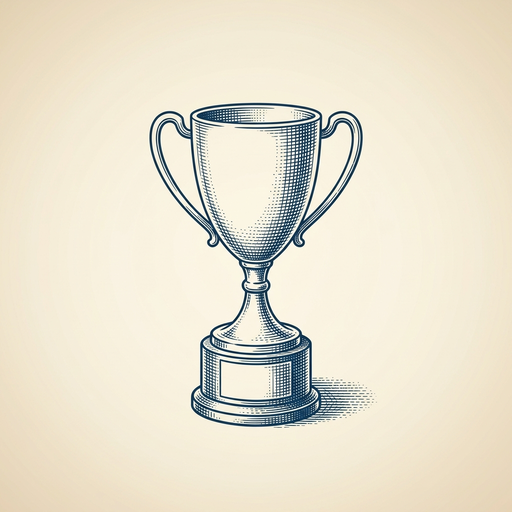
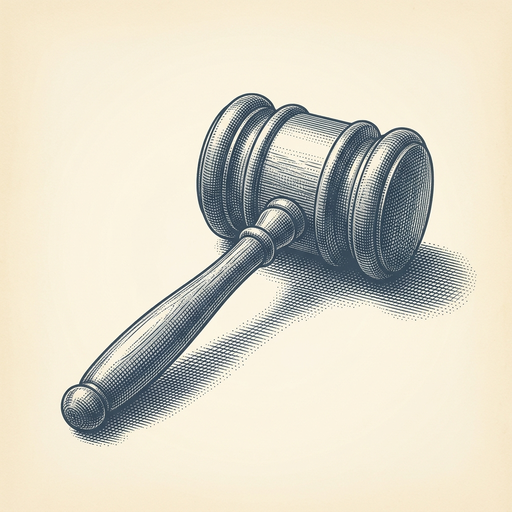
fix(render): assign stable per-edition issue numbers
Edition numbering reused the highest issue number that already had
assets, so each new date overwrote the most recent edition instead of
incrementing. Number every edition once, persist it in the edition JSON,
and increment for new dates so re-runs stay idempotent and a new day can
never clobber a shipped edition.

Restore edition 6 (2026-05-20) to its original artifacts and re-home the
2026-05-28 edition to edition 7.

Changed region(s): [[0.0938, 0.1562, 0.9375, 0.875], [0.9688, 0.0, 1.0, 0.0312], [0.0, 0.9688, 0.0312, 1.0]]

diff --git a/agent/tests/test_render_polish.py b/agent/tests/test_render_polish.py
@@ -143,6 +143,64 @@ class PublicHtmlPolishTests(unittest.TestCase):
                 render_edition(edition, issue_num=77, editions_dir=out)
 
 
+class IssueNumberingTests(unittest.TestCase):
+    """A new edition date must never overwrite a previously numbered edition."""
+
+    _STORY = {
+        "slot": "business",
+        "headline": "Anthropic ships enterprise memory controls",
+        "blurb": "Admins can now define workspace retention settings.",
+        "why_it_matters": "Teams get concrete governance over long-running AI work.",
+        "source_name": "Anthropic News",
+        "source_url": "https://example.com/a",
+        "tier": 1,
+    }
+
+    def _fixture(self, out_dir: Path, name: str, date: str) -> Path:
+        edition = out_dir / name
+        edition.write_text(
+            json.dumps(
+                {
+                    "date": date,
+                    "stories": [dict(self._STORY) for _ in range(4)],
+                    "try_this_prompt": {
+                        "title": "Try this prompt",
+                        "prompt": "Summarize today's strongest AI move.",
+                        "tool_hint": "Paste into your assistant.",
+                    },
+                }
+            ),
+            encoding="utf-8",
+        )
+        return edition
+
+    def test_first_render_assigns_next_number_and_persists_it(self):
+        with tempfile.TemporaryDirectory() as tmp:
+            out = Path(tmp)
+            edition = self._fixture(out, "a.json", "2026-06-01")
+            result = render_edition(edition, editions_dir=out)
+            self.assertEqual(result["issue_num"], 1)
+            self.assertEqual(json.loads(edition.read_text())["issue_num"], 1)
+
+    def test_rerender_same_edition_reuses_persisted_number(self):
+        with tempfile.TemporaryDirectory() as tmp:
+            out = Path(tmp)
+            edition = self._fixture(out, "a.json", "2026-06-01")
+            first = render_edition(edition, editions_dir=out)
+            second = render_edition(edition, editions_dir=out)
+            self.assertEqual(first["issue_num"], second["issue_num"])
+
+    def test_new_date_does_not_overwrite_existing_edition(self):
+        with tempfile.TemporaryDirectory() as tmp:
+            out = Path(tmp)
+            first = render_edition(self._fixture(out, "a.json", "2026-06-01"), editions_dir=out)
+            second = render_edition(self._fixture(out, "b.json", "2026-06-02"), editions_dir=out)
+            self.assertEqual(first["issue_num"], 1)
+            self.assertEqual(second["issue_num"], 2)
+            self.assertTrue((out / "edition_1_variant_c.html").is_file())
+            self.assertTrue((out / "edition_2_variant_c.html").is_file())
+
+
 class CompressEditionPngTests(unittest.TestCase):
 
     def test_compress_resizes_large_png(self):

diff --git a/agent/render_html.py b/agent/render_html.py
@@ -79,34 +79,32 @@ def next_issue_number(editions_dir: Path = EDITIONS_DIR) -> int:
     return (max(nums) + 1) if nums else 1
 
 
-def edition_has_assets(issue_num: int, editions_dir: Path = EDITIONS_DIR) -> bool:
-    """True when all expected variant_c PNGs exist for this issue."""
-    return all(
-        (editions_dir / image_filename(issue_num, i)).is_file()
-        for i in range(1, STORY_CARD_COUNT + 2)
-    )
-
-
 def resolve_issue_num(
     issue_num: int | None,
+    data: dict[str, Any],
+    edition_json_path: Path | None = None,
     editions_dir: Path = EDITIONS_DIR,
 ) -> int:
-    """Pick issue number for render; reuse latest issue that already has assets."""
+    """Assign a stable, per-edition issue number.
+
+    Numbers are keyed to the edition itself, not to whatever artifacts happen to
+    sit in ``editions_dir``. The first render of an edition claims the next free
+    number and persists it back into the edition JSON; later renders of the same
+    edition reuse that number, so re-runs are idempotent and a new date never
+    overwrites a previously shipped edition.
+    """
     if issue_num is not None:
         return issue_num
-    with_assets = []
-    for p in editions_dir.iterdir():
-        if not p.is_dir() or not p.name.startswith("edition_"):
-            continue
-        suffix = p.name.removeprefix("edition_")
-        if not suffix.isdigit():
-            continue
-        n = int(suffix)
-        if edition_has_assets(n, editions_dir):
-            with_assets.append(n)
-    if with_assets:
-        return max(with_assets)
-    return next_issue_number(editions_dir)
+    persisted = data.get("issue_num")
+    if isinstance(persisted, int) and persisted > 0:
+        return persisted
+    assigned = next_issue_number(editions_dir)
+    if edition_json_path is not None:
+        data["issue_num"] = assigned
+        edition_json_path.write_text(
+            json.dumps(data, indent=2) + "\n", encoding="utf-8"
+        )
+    return assigned
 
 
 # ---------- date formatting ----------
@@ -737,7 +735,7 @@ def render_edition(
     prompt = data.get("try_this_prompt") or {}
     story_limit = min(len(stories), STORY_CARD_COUNT)
 
-    issue_num = resolve_issue_num(issue_num, editions_dir)
+    issue_num = resolve_issue_num(issue_num, data, edition_json_path, editions_dir)
     issue_padded = f"{issue_num:03d}"
     dates = format_dateline(data["date"])
     preheader = derive_preheader(stories)

diff --git a/editions/edition_7_variant_c.md b/editions/edition_7_variant_c.md
@@ -1,0 +1,82 @@
+# ai espresso ☕ — Edition 7 · Variant C (Newspaper Comic · Snackable)
+
+*your morning cup of AI*
+**THU · MAY 28 · 2026**
+
+---
+
+![Mystery model Hy3 is crushing GPT-4o on OpenRouter's leaderboard](edition_7/assets/variant_c_01.png)
+
+**MARKET**
+
+## Mystery model Hy3 is crushing GPT-4o on OpenRouter's leaderboard
+
+An unidentified LLM called Hy3 has shot to the top of OpenRouter's user preference rankings, beating established models by a significant margin. No one knows who built it, what architecture it uses, or how it's trained—but developers are routing real queries to it.
+
+*A completely anonymous AI model is now handling production workloads based purely on performance.*
+
+[Hacker News (front page)](https://minimaxir.com/2026/05/openrouter-hy3/) · May 28
+
+---
+
+![You can now run AI chatbots directly on your iPhone](edition_7/assets/variant_c_02.png)
+
+**EVERYDAY**
+
+## You can now run AI chatbots directly on your iPhone
+
+Several apps let you download and run AI models locally on your iPhone — no internet required. Your conversations stay on your device, and the chatbot works offline. The tradeoff: local models are smaller and less capable than cloud versions like ChatGPT.
+
+*Privacy-conscious users get AI without sending data to servers.*
+
+[Engadget — AI](https://www.engadget.com/2182517/how-to-run-local-ai-chatbot-iphone/) · May 28
+
+---
+
+![Anthropic just released Claude Opus 4.8, its most capable model yet](edition_7/assets/variant_c_03.png)
+
+**BUILD**
+
+## Anthropic just released Claude Opus 4.8, its most capable model yet
+
+Claude Opus 4.8 is now available across all tiers. Anthropic says it outperforms the previous flagship on complex reasoning, coding, and extended context tasks, while maintaining the same speed and pricing as Opus 4.
+
+*The new flagship raises the bar for what production AI can handle without changing your budget.*
+
+[Anthropic News](https://www.anthropic.com/news/claude-opus-4-8) · May 28
+
+---
+
+![BMW puts humanoid robots on its assembly line in Europe](edition_7/assets/variant_c_04.png)
+
+**INDUSTRY**
+
+## BMW puts humanoid robots on its assembly line in Europe
+
+BMW is deploying humanoid robots at a European car plant, expanding a trial that started in the US. The robots are designed to work alongside humans on tasks like installing door seals and moving parts—jobs that are physically demanding or repetitive.
+
+*Humanoid form factor means existing factory layouts don't need rebuilding for automation.*
+
+[BBC Technology](https://www.bbc.com/news/articles/cgmpwzzvxr2o?at_medium=RSS&at_campaign=rss) · May 28
+
+---
+
+
+---
+
+![Try this prompt](edition_7/assets/variant_c_05.png)
+
+**☕ Try this prompt**
+
+### The jargon translator
+
+*Before sending anything to a new stakeholder, contractor, or your future self in six months.*
+
+
+```
+I'm about to paste something I wrote that sounds too clever or too internal. Rewrite it so a smart outsider—someone who doesn't work here—gets it in one read. Keep my point, lose the acronyms and insider shorthand. If a sentence needs a glossary, kill it.
+```
+
+---
+
+*brewed by ai espresso · [spot something off?](mailto:[email redacted]?subject=AI%20Espresso%20issue%20report) · [repo](https://github.com/jackiehimel/AI-espresso-agent)*

diff --git a/editions/edition_6_variant_c.md b/editions/edition_6_variant_c.md
@@ -1,63 +1,62 @@
 # ai espresso ☕ — Edition 6 · Variant C (Newspaper Comic · Snackable)
 
-*your morning cup of AI*
-**THU · MAY 28 · 2026**
+**WED · MAY 20 · 2026**
 
 ---
 
-![Mystery model Hy3 is crushing GPT-4o on OpenRouter's leaderboard](edition_6/assets/variant_c_01.png)
+![OpenAI will now let companies reserve compute so their AI apps don't slow down](edition_6/assets/variant_c_01.png)
 
 **MARKET**
 
-## Mystery model Hy3 is crushing GPT-4o on OpenRouter's leaderboard
+## OpenAI will now let companies reserve compute so their AI apps don't slow down
 
-An unidentified LLM called Hy3 has shot to the top of OpenRouter's user preference rankings, beating established models by a significant margin. No one knows who built it, what architecture it uses, or how it's trained—but developers are routing real queries to it.
+OpenAI's new Guaranteed Capacity lets businesses pre-book processing power for their AI applications. Sam Altman said the company will still keep enough capacity for ChatGPT and Codex, but enterprises can now pay to ensure their custom models run at consistent speeds even during peak times.
 
-*A completely anonymous AI model is now handling production workloads based purely on performance.*
+*Companies building on OpenAI can finally avoid the performance lottery that comes with shared infrastructure*
 
-[Hacker News (front page)](https://minimaxir.com/2026/05/openrouter-hy3/) · May 28
+[CNBC — Technology](https://www.cnbc.com/2026/05/19/openai-announces-new-guaranteed-capacity-offering-for-customers-to-secure-compute.html) · May 20
 
 ---
 
-![You can now run AI chatbots directly on your iPhone](edition_6/assets/variant_c_02.png)
+![Google is shipping smart glasses again, this time built around Gemini](edition_6/assets/variant_c_02.png)
 
 **EVERYDAY**
 
-## You can now run AI chatbots directly on your iPhone
+## Google is shipping smart glasses again, this time built around Gemini
 
-Several apps let you download and run AI models locally on your iPhone — no internet required. Your conversations stay on your device, and the chatbot works offline. The tradeoff: local models are smaller and less capable than cloud versions like ChatGPT.
+Google will release new AI-powered smart glasses this fall — its first since Google Glass flopped over a decade ago. The glasses let you talk to Gemini and get visual answers from what you're looking at, similar to Meta's Ray-Ban glasses but with Google's AI assistant baked in.
 
-*Privacy-conscious users get AI without sending data to servers.*
+*Wearable AI is getting another shot now that the tech actually works conversationally.*
 
-[Engadget — AI](https://www.engadget.com/2182517/how-to-run-local-ai-chatbot-iphone/) · May 28
+[BBC Technology](https://www.bbc.com/news/articles/cvgz1ynq1nqo?at_medium=RSS&at_campaign=rss) · May 20
 
 ---
 
-![Anthropic just released Claude Opus 4.8, its most capable model yet](edition_6/assets/variant_c_03.png)
+![Cursor now lets AI iterate on code in hidden workspaces](edition_6/assets/variant_c_03.png)
 
 **BUILD**
 
-## Anthropic just released Claude Opus 4.8, its most capable model yet
+## Cursor now lets AI iterate on code in hidden workspaces
 
-Claude Opus 4.8 is now available across all tiers. Anthropic says it outperforms the previous flagship on complex reasoning, coding, and extended context tasks, while maintaining the same speed and pricing as Opus 4.
+Cursor's new Shadow Workspace feature spins up invisible Electron windows and uses kernel-level folder proxies to let AI agents test and refine code changes in the background—without touching your actual project files or interrupting your work.
 
-*The new flagship raises the bar for what production AI can handle without changing your budget.*
+*AI can now experiment freely while you keep coding, no git branches or manual cleanup required.*
 
-[Anthropic News](https://www.anthropic.com/news/claude-opus-4-8) · May 28
+[Cursor Blog (official)](https://cursor.com/blog/shadow-workspace) · May 20
 
 ---
 
-![BMW puts humanoid robots on its assembly line in Europe](edition_6/assets/variant_c_04.png)
+![Google just launched Gemini 3.5 with live web access and tool use](edition_6/assets/variant_c_04.png)
 
 **INDUSTRY**
 
-## BMW puts humanoid robots on its assembly line in Europe
+## Google just launched Gemini 3.5 with live web access and tool use
 
-BMW is deploying humanoid robots at a European car plant, expanding a trial that started in the US. The robots are designed to work alongside humans on tasks like installing door seals and moving parts—jobs that are physically demanding or repetitive.
+Gemini 3.5 can now search the web in real time, run code, and use external tools while answering questions—making it more like an agent than a chatbot. It's available today in Gemini Advanced and through the API, with a 1-million-token context window and improved performance on coding and math benchmarks.
 
-*Humanoid form factor means existing factory layouts don't need rebuilding for automation.*
+*Google's flagship model can finally act on information, not just retrieve it.*
 
-[BBC Technology](https://www.bbc.com/news/articles/cgmpwzzvxr2o?at_medium=RSS&at_campaign=rss) · May 28
+[Google AI Blog](https://blog.google/innovation-and-ai/models-and-research/gemini-models/gemini-3-5/) · May 20
 
 ---
 
@@ -70,13 +69,13 @@ BMW is deploying humanoid robots at a European car plant, expanding a trial that
 
 ### The jargon translator
 
-*Before sending anything to a new stakeholder, contractor, or your future self in six months.*
+*Before sending anything to customers, execs, or humans outside your team.*
 
 
 ```
-I'm about to paste something I wrote that sounds too clever or too internal. Rewrite it so a smart outsider—someone who doesn't work here—gets it in one read. Keep my point, lose the acronyms and insider shorthand. If a sentence needs a glossary, kill it.
+I'm about to paste something I wrote that probably sounds like I swallowed a whitepaper. Rewrite it so a smart 19-year-old would understand every sentence on first read. Keep my structure. Keep my point. Kill every word that exists only to sound professional.
 ```
 
 ---
 
-*brewed by ai espresso · [spot something off?](mailto:[email redacted]?subject=AI%20Espresso%20issue%20report) · [repo](https://github.com/jackiehimel/AI-espresso-agent)*
+*brewed by ai espresso · [spot something off?](mailto:[email redacted]?subject=AI%20Espresso%20issue%20report) · [repo](https://github.com/jackiehimel/ai-espresso-finalized)*